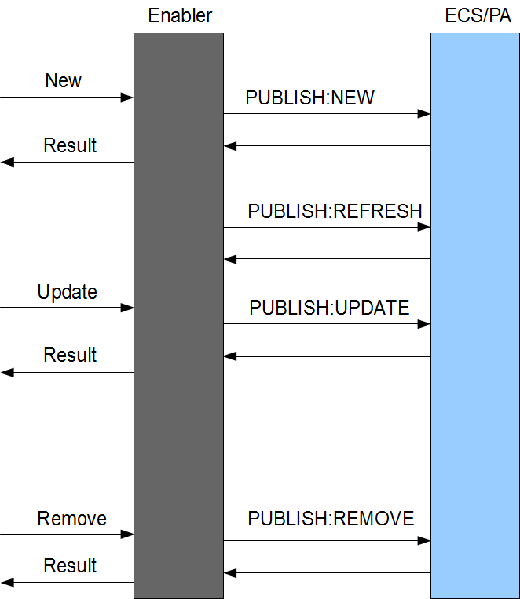
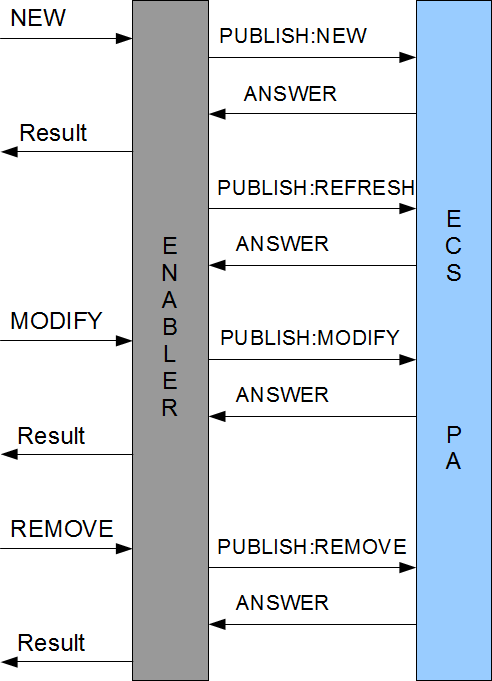
[SLEE] Publication enabler:  - fix doc image  - fix callback on 423.
git-svn-id: https://mobicents.googlecode.com/svn/trunk/servers/jain-slee@16215 bf0df8d0-2c1f-0410-b170-bd30377b63dc

diff --git a/enablers/sip-publication-client/sbb/src/main/java/org/mobicents/slee/enabler/sip/PublicationClientChildSbb.java b/enablers/sip-publication-client/sbb/src/main/java/org/mobicents/slee/enabler/sip/PublicationClientChildSbb.java
@@ -308,7 +308,7 @@ public abstract class PublicationClientChildSbb implements Sbb, PublicationClien
 					tracer.severe("Received 423 on REMOVE request!");
 				}
 				try{
-					this.getParentSbbCMP().refreshPublicationFailed(statusCode, (PublicationClientChildSbbLocalObject) this.sbbContext.getSbbLocalObject());
+					this.getParentSbbCMP().removePublicationFailed(statusCode, (PublicationClientChildSbbLocalObject) this.sbbContext.getSbbLocalObject());
 				}
 				catch(Exception e) {
 					if(tracer.isSevereEnabled()) {
